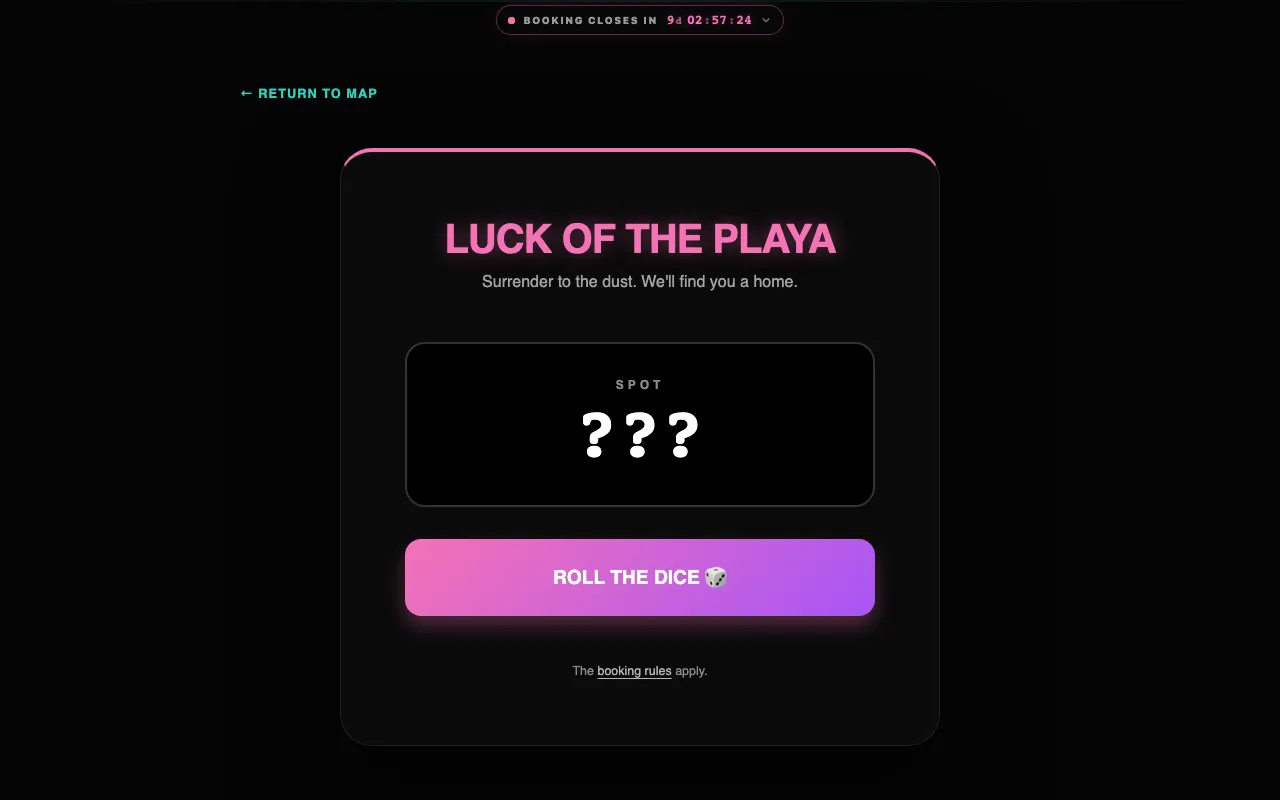
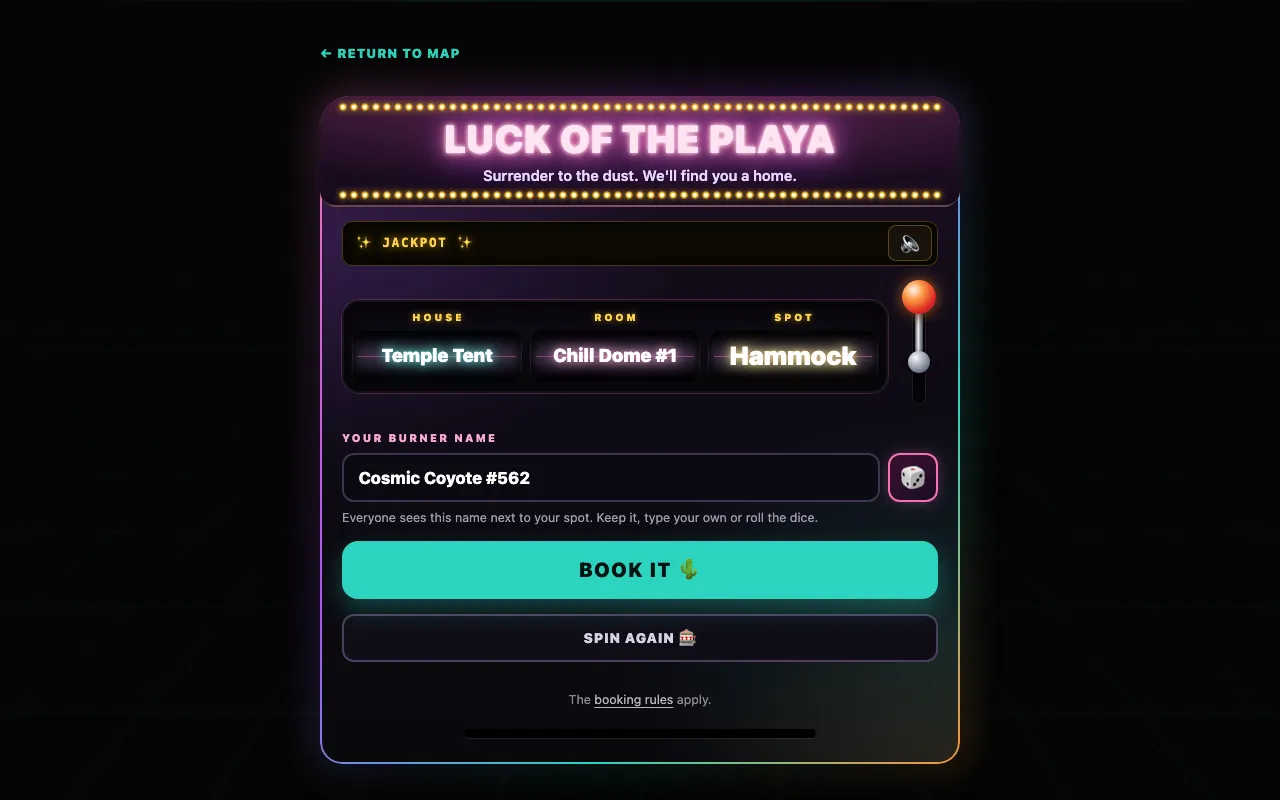
docs: the Destiny Roulette as a slot machine, and Leave No Trace
Guide: the lever and SPIN, fair odds, the name plate (keep, type or roll),
SPIN AGAIN, BOOK IT, the printed booking pass, the sound switch, and
✨ Leave No Trace & Respin instead of the nuke, with its warning box.
FAQ, landing page, architecture, README and the notifications page follow;
new screenshot of the machine after a spin.

Changed region(s): [[0.1875, 0.0625, 0.7812, 0.9688], [0.25, 0.9375, 0.5312, 0.9688], [0.375, 0.0, 0.5938, 0.0312]]

diff --git a/docs/guide/booking.md b/docs/guide/booking.md
@@ -77,24 +77,29 @@ That's it: fireworks go up from your new spot 🎆, and the spot now shows **You
 
 ## Destiny Roulette
 
-Can't decide? On the map press <kbd>🎰 DESTINY ROULETTE</kbd>, then <kbd>ROLL THE DICE 🎲</kbd>. The machine picks a random free spot anywhere in the camp and rolls a burner name to go with it.
+Can't decide? On the map press <kbd>🎰 DESTINY ROULETTE</kbd>. A neon slot machine waits with three reels, **House**, **Room** and **Spot**: grab its lever, pull it down and let go, or press <kbd>SPIN 🎰</kbd>. The reels stop one after the other on a random free spot anywhere in the camp. Every free spot has the same chance; how hard you pull only changes how long the reels run.
 
-- <kbd>New Name 🎲</kbd> keeps the spot and rolls a new name.
-- <kbd>Full Respin 🔥</kbd> rolls spot and name again.
-- <kbd>Accept Fate & Book 🌵</kbd> books it: *Destiny Fulfilled!*, with fireworks.
+Then the burner name that goes with the spot:
 
-![Destiny Roulette before the first roll](../assets/screenshots/guest-roulette.webp)
+- If your ticket already has a burner name, it is filled in. Keep it or change it.
+- Type your own name into **Your burner name**, or press <kbd>🎲</kbd> to roll one (something like *Cosmic Coyote #562*). A rolled name can still be changed.
+- <kbd>SPIN AGAIN 🎰</kbd> spins for another spot and keeps the name.
+- <kbd>BOOK IT 🌵</kbd> books the spot. With the name field empty, the first tap rolls a name; the next one books.
 
-After a booking the roulette offers <kbd>Visit My Room</kbd> and <kbd>Back to Map</kbd>.
+*Destiny Fulfilled!* Fireworks go up and your [booking pass](#your-booking-pass) prints out on the card, with <kbd>Visit My Room</kbd> and <kbd>Back to Map</kbd>.
 
-The roulette button is only on the map during Live Booking. Opened at another time, the page says *Booking is not open yet. Come back when Live Booking starts.* or *Booking is closed. The roulette is resting until the next burn.*; with every spot taken, it says so and asks you to check back later.
+The 🔈 button on the machine turns its sounds on: lever, reels and the jackpot jingle. They are off until you turn them on, and the machine remembers your choice on that device.
 
-### Already booked? ☢ Nuke & Respin
+![Destiny Roulette after a spin: the spot on the three reels, the name plate with the dice, BOOK IT and SPIN AGAIN](../assets/screenshots/guest-roulette.webp)
 
-The roulette page then shows your spot with <kbd>Visit My Room</kbd> and <kbd>☢ Nuke & Respin</kbd>. Nuking opens a red alert with your spot as the target: hold the big red button for two seconds (on a keyboard: hold Space). Letting go early, <kbd>Abort — keep my spot</kbd> or <kbd>Esc</kbd> stops it. The moment it fires, your booking is deleted and the roulette rolls a new spot and a new burner name.
+The roulette button is only on the map during Live Booking. Opened at another time, the machine rests with its lights down and says *Booking is not open yet. Come back when Live Booking starts.* or *Booking is closed. The roulette is resting until the next burn.*; with every spot taken, it says so and asks you to check back later.
 
-> [!WARNING] Nuked means gone
-> Your old spot is free for everyone the moment you launch, and there is no undo. Until you accept a new spot you have none, so don't leave the page halfway. The roulette may even hand you your old spot again.
+### Already booked? ✨ Leave No Trace & Respin
+
+The machine then shows your spot on its reels, with your booking pass below it, <kbd>Visit My Room</kbd> and <kbd>✨ Leave No Trace & Respin</kbd>. That button opens the Leave No Trace spell: hold the round <kbd>Hold to sweep ✨</kbd> button for two seconds (on a keyboard: hold Space). Letting go early, <kbd>Keep my spot</kbd> or <kbd>Esc</kbd> stops it. The moment the sweep is done, your booking is deleted, a little dust devil blows your spot away in glitter, and the machine spins a new spot for you. Your burner name stays on the name plate: keep it or change it before you book.
+
+> [!WARNING] Swept means gone
+> Your old spot is free for everyone the moment the sweep is done, and there is no undo. Until you book a new spot you have none, so don't leave the page halfway. The roulette may even hand you your old spot again.
 
 ## Changing your mind
 
@@ -103,7 +108,7 @@ Open your room, click **Your Spot**, change the burner name and press <kbd>Save 
 :::
 
 ::: tip Move to another bed
-One ticket holds one spot, so release your current spot first: <kbd>Release</kbd> in the spot dialog or <kbd>Release Current Spot</kbd> on a house or room page. Then book the new one. Or leave it to fate: <kbd>☢ Nuke & Respin</kbd> on the roulette page deletes your booking and rolls a new spot right away.
+One ticket holds one spot, so release your current spot first: <kbd>Release</kbd> in the spot dialog or <kbd>Release Current Spot</kbd> on a house or room page. Then book the new one. Or leave it to fate: <kbd>✨ Leave No Trace & Respin</kbd> on the roulette page deletes your booking and spins a new spot right away.
 :::
 
 ![Another house while you hold a spot: the note with your spot as a small ticket, and Release Current Spot](../assets/screenshots/guest-house-own-spot.webp)
@@ -123,7 +128,7 @@ When your spot is booked, changes or is released, CozyNights sends an e-mail to 
 
 ### Your booking pass
 
-Once you hold a spot, your room page shows <kbd>🎫 Show booking pass</kbd>, every other house and room shows your spot as a small ticket that opens it (so does the map once booking has closed), and every confirmation links to it: a page with your spot, a QR code and a short code like `7F3K-9QXM-2CWD`. Show it when you arrive — or a screenshot of it: the crew scans it and checks you in. From then on your spot is final: you can still change your burner name while booking is open, but only the crew can release or move the spot.
+Once you hold a spot, your room page shows <kbd>🎫 Show booking pass</kbd>, every other house and room shows your spot as a small ticket that opens it (so do the roulette page and, once booking has closed, the map), and every confirmation links to it: a page with your spot, a QR code and a short code like `7F3K-9QXM-2CWD`. Show it when you arrive — or a screenshot of it: the crew scans it and checks you in. From then on your spot is final: you can still change your burner name while booking is open, but only the crew can release or move the spot.
 
 <p align="center"><img src="../assets/screenshots/guest-pass.webp" alt="A booking pass on a phone: house, room, spot, burner name, QR code and pass code" width="300" /></p>
 

diff --git a/docs/admin/notifications.md b/docs/admin/notifications.md
@@ -39,7 +39,7 @@ A guest hears from CozyNights when their spot changes:
 | The spot is gone (released by the guest, freed by an admin, its room or house deleted, **Clear all bookings**, a template import, the switch back to Staging) | **Your CozyNights spot was released**, with a link to the map. Not when a superuser switches back to Staging with *Don't notify the guests* ticked (the default once booking has closed): then the release is accepted in silence, and a booking later on is news again (*booked*, not *changed*) |
 | A [special-needs request](./special-needs) arrives · is approved · is declined | **We got your special-needs request** · **…was approved** · **About your special-needs request**. Approved and booked at once: one message, **Your special-needs spot:** with the pass. What the guest wrote is never in a message. |
 
-- **One message per change.** A move is one "changed" message, never "released" plus "booked". Changes within about ten seconds are combined, and two messages about the same ticket are at least two minutes apart. A guest who nukes their spot on the roulette (☢ *Nuke & Respin*) keeps that message back for up to ten minutes, so the new spot arrives as one **changed** message; if they leave without rolling a new one, the release is sent after all. A switch back to Staging with *Don't notify the guests* ticked silences the tickets whose spots it releases, a held message included. A ticket that already has no spot is not part of that release: its held message still reports the release when the hold runs out.
+- **One message per change.** A move is one "changed" message, never "released" plus "booked". Changes within about ten seconds are combined, and two messages about the same ticket are at least two minutes apart. A guest who gives up their spot on the roulette (✨ *Leave No Trace & Respin*) keeps that message back for up to ten minutes, so the new spot arrives as one **changed** message; if they leave without booking a new one, the release is sent after all. A switch back to Staging with *Don't notify the guests* ticked silences the tickets whose spots it releases, a held message included. A ticket that already has no spot is not part of that release: its held message still reports the release when the hold runs out.
 - **E-mail goes to the address of the ticket.** Guests never type an address: it comes with the [ticket import](#ticket-codes-with-e-mail-addresses). On their room page they see where confirmations go, shortened to `m•••@example.com`.
 - **Telegram is the guest's choice.** On their room page, <kbd>Get updates on Telegram</kbd> opens a chat with the CozyNights bot. After <kbd>START</kbd> the bot confirms the current spot and sends every change from then on. <kbd>Turn off</kbd> on the room page or `/stop` in the chat ends it. The link works once and for 30 minutes.
 - **The bot talks to guests, nobody else.** Any other message to it (a question, a sticker) gets a short help text: how to connect on the room page or the special-needs page. `/start` with a used or expired link answers *⌛ This link has expired or was already used. Open your room on the booking page and tap "Get updates on Telegram" again.*; `/stop` answers *🔕 Disconnected. You won't get updates here anymore.*, or *This chat is not connected to a ticket.*

diff --git a/docs/reference/architecture.md b/docs/reference/architecture.md
@@ -152,7 +152,7 @@ erDiagram
 | `/map` | everyone | Camp map, blurred with countdown in staging; read-only after booking closed |
 | `/house/:id` | guests with a code | Rooms of a house with free spots |
 | `/room/:id` | guests with a code | Spots of a room, booking dialog |
-| `/random-bed` | guests with a code | Destiny Roulette; a guest with a spot can nuke it (hold-to-launch warning) and respin |
+| `/random-bed` | guests with a code | Destiny Roulette, a slot machine for a random free spot; a guest with a spot sees it with the booking pass and can give it up with ✨ Leave No Trace (hold to sweep) and spin again |
 | `/special-needs` | guests with a code | Ask for a special-needs spot, see the crew's answer, withdraw |
 | `/legal-notice` | everyone | Legal notice (Impressum), details from the server's `.env`; `/impressum` redirects here |
 | `/privacy` | everyone | Privacy policy; `/datenschutz` redirects here |
@@ -213,8 +213,8 @@ hamburn-cozynights/                 repository root
     │   ├── hooks.server.ts         sessions and the admin gate for every request
     │   ├── routes/                 guest pages, /admin, OAuth callback
     │   └── lib/
-    │       ├── components/         map, markers, slot machine, nuke warning, effigy title, admin widgets
-    │       ├── fx/                 cursor trail, booking fireworks, burning effigy title (canvas)
+    │       ├── components/         map, markers, slot machines, Leave No Trace spell, effigy title, admin widgets
+    │       ├── fx/                 cursor trail, booking fireworks, burning effigy title, glitter sweep, roulette sounds
     │       └── server/             booking, inventory, settings, admin auth, crypto
     ├── pb_migrations/              database schema and API rules
     ├── pb_hooks/                   PocketBase hooks: admin sign-in guard, admin tool,

diff --git a/README.md b/README.md
@@ -29,7 +29,7 @@ Ticket holders pick their own bed on the Hamburn camp map. The crew builds the c
 | --- | ---------------------------- | ------------------------------------------------------------------------------------------------------ |
 | 🗺  | **Interactive camp map**     | Every house sits on the real site plan; guests see at a glance where beds are free.                    |
 | 🎫  | **One ticket, one bed**      | No accounts or passwords for guests. The ticket code is the key, and it holds exactly one spot.        |
-| 🎰  | **Destiny Roulette**         | A random free bed and burner name for the undecided; booked guests can nuke their spot and respin.     |
+| 🎰  | **Destiny Roulette**         | A neon slot machine for the undecided: pull the lever for a random free bed, then keep, type or roll a burner name; booked guests can leave no trace and respin. |
 | 🎆  | **Booking fireworks**        | Neon rockets rise from your new spot and burst like the cursor does; a fire finale ends the show.      |
 | 🛠  | **Staging, Live, Closed**    | The crew builds the layout in staging; a booking window opens and closes booking by timer, and closing freezes it. |
 | 🔐  | **Google Workspace sign-in** | Admins use their `@mauersegler.art` account. Newcomers request access, a superuser approves.           |

diff --git a/docs/guide/faq.md b/docs/guide/faq.md
@@ -54,8 +54,8 @@ Open the room link in your confirmation e-mail or Telegram message. During Live 
 First look at the room page: if the spot shows as **Your Spot**, all is fine. *Something went wrong* means the booking may or may not have gone through, so check before booking again. *Technical problem. Nothing was booked* is one for the crew. *This spot doesn't exist anymore* means the crew changed the layout meanwhile: pick another spot.
 :::
 
-::: details Destiny Roulette says "Someone was faster", "The roll was incomplete" or "You already have a spot"
-Roll again: another guest took that spot in the meantime, or the roll didn't finish. *You already have a spot* means the roulette only hands out spots to tickets without one; release yours first if you want to roll.
+::: details Destiny Roulette says "Someone was faster", "The spin was incomplete" or "You already have a spot"
+Spin again: another guest took that spot in the meantime, or the spin didn't finish. *You already have a spot* means the roulette only hands out spots to tickets without one; give yours up first (✨ *Leave No Trace & Respin* on the roulette page) if you want to spin.
 :::
 
 ::: details "This house doesn't exist (anymore)", "This room doesn't exist (anymore)", "The map could not be loaded right now"

diff --git a/docs/index.md b/docs/index.md
@@ -34,7 +34,7 @@ features:
     linkText: The booking flow
   - icon: 🎰
     title: Destiny Roulette
-    details: Can't decide? Roll for a random free bed and a burner name to go with it.
+    details: Can't decide? Pull the lever of a neon slot machine for a random free bed, then keep, type or roll a burner name.
     link: /guide/booking#destiny-roulette
     linkText: Feeling lucky
   - icon: 📬
